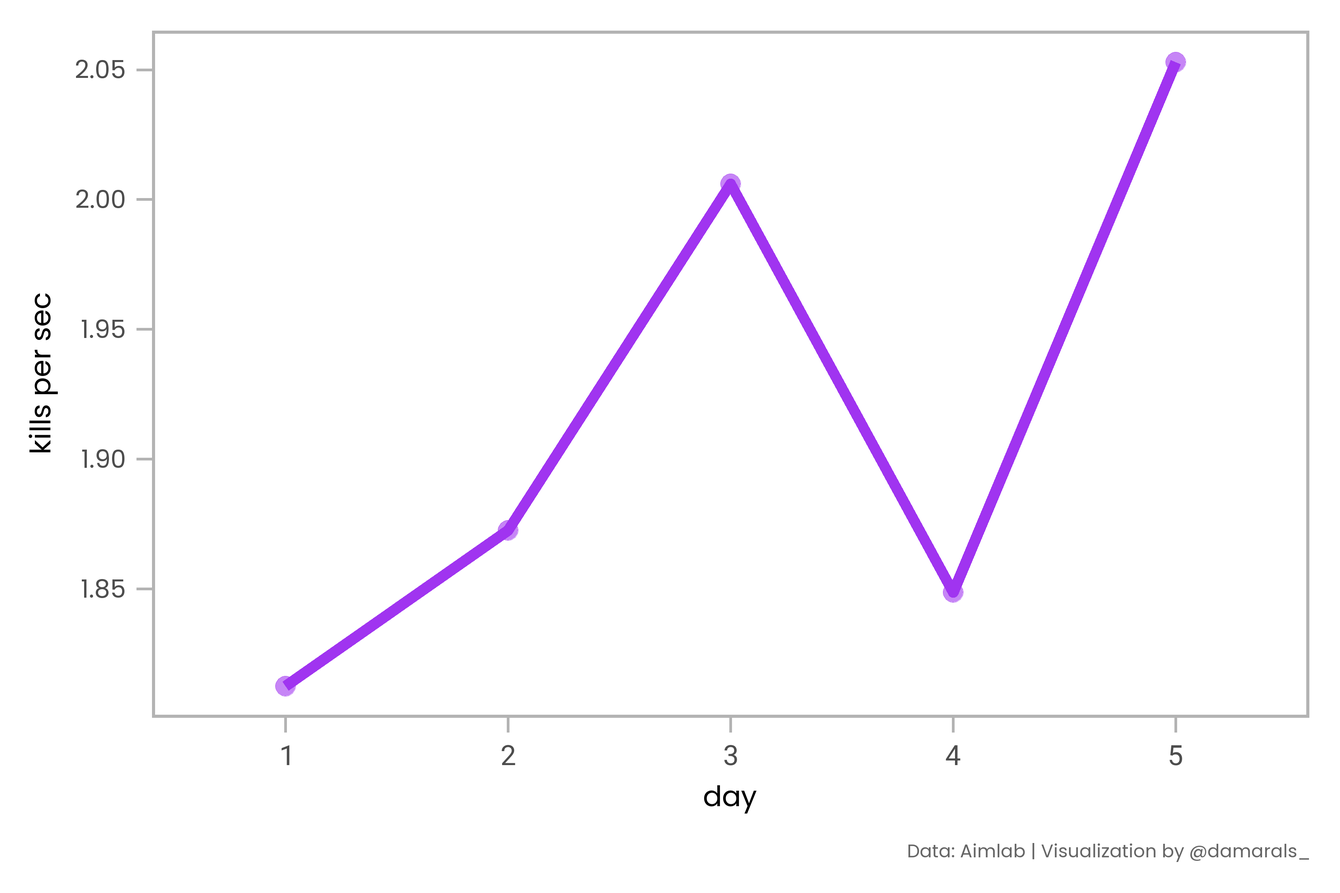
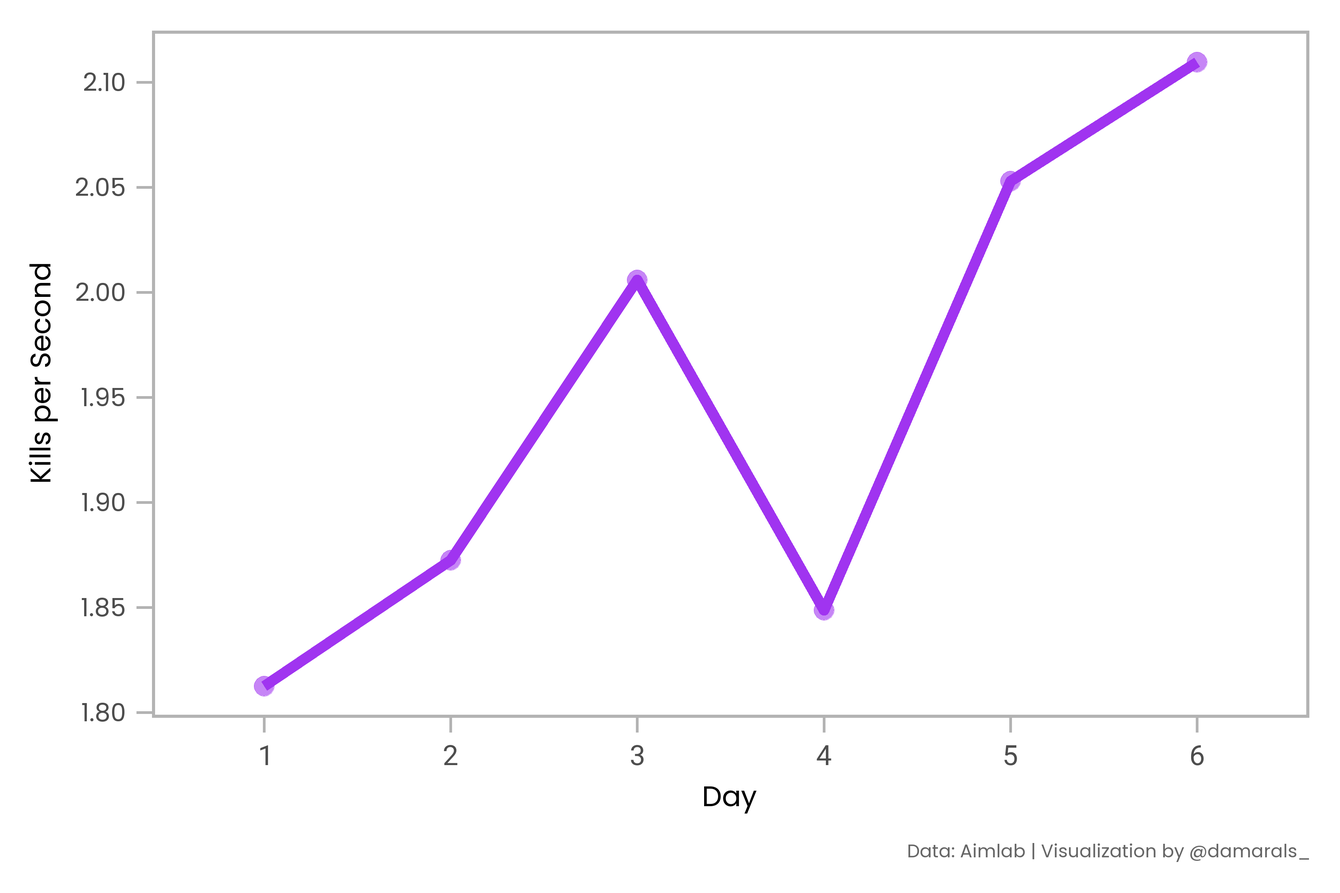
:rocket: att data and fix plot labels

diff --git a/docs/posts/2022-05-13_aimlab-is-worth/index.html b/docs/posts/2022-05-13_aimlab-is-worth/index.html
@@ -319,9 +319,9 @@ code span.wa { color: #60a0b0; font-weight: bold; font-style: italic; } /* Warni
 <span id="cb3-10"><a href="#cb3-10" aria-hidden="true" tabindex="-1"></a>  ggplot2<span class="sc">::</span><span class="fu">stat_summary</span>(<span class="at">fun =</span> mean, <span class="at">geom =</span> <span class="st">"point"</span>, <span class="at">size =</span> <span class="dv">9</span>, <span class="at">alpha =</span> <span class="fl">0.6</span>) <span class="sc">+</span></span>
 <span id="cb3-11"><a href="#cb3-11" aria-hidden="true" tabindex="-1"></a>  ggplot2<span class="sc">::</span><span class="fu">stat_summary</span>(<span class="at">fun =</span> mean, <span class="at">geom =</span> <span class="st">"line"</span>, <span class="at">size =</span> <span class="dv">5</span>) <span class="sc">+</span></span>
 <span id="cb3-12"><a href="#cb3-12" aria-hidden="true" tabindex="-1"></a>  ggplot2<span class="sc">::</span><span class="fu">scale_y_continuous</span>(<span class="at">breaks =</span> scales<span class="sc">::</span><span class="fu">pretty_breaks</span>(<span class="dv">8</span>)) <span class="sc">+</span></span>
-<span id="cb3-13"><a href="#cb3-13" aria-hidden="true" tabindex="-1"></a>  ggplot2<span class="sc">::</span><span class="fu">scale_color_discrete</span>(<span class="st">"aim on ball"</span>) <span class="sc">+</span></span>
+<span id="cb3-13"><a href="#cb3-13" aria-hidden="true" tabindex="-1"></a>  ggplot2<span class="sc">::</span><span class="fu">scale_color_discrete</span>(<span class="st">"Aim on Target"</span>) <span class="sc">+</span></span>
 <span id="cb3-14"><a href="#cb3-14" aria-hidden="true" tabindex="-1"></a>  ggplot2<span class="sc">::</span><span class="fu">scale_color_manual</span>(<span class="at">values =</span> <span class="fu">c</span>(<span class="st">"#FF8C00"</span>, <span class="st">"#A034F0"</span>)) <span class="sc">+</span></span>
-<span id="cb3-15"><a href="#cb3-15" aria-hidden="true" tabindex="-1"></a>  ggplot2<span class="sc">::</span><span class="fu">labs</span>(<span class="at">y =</span> <span class="st">"average time"</span>,</span>
+<span id="cb3-15"><a href="#cb3-15" aria-hidden="true" tabindex="-1"></a>  ggplot2<span class="sc">::</span><span class="fu">labs</span>(<span class="at">x =</span> <span class="st">"Day"</span>, <span class="at">y =</span> <span class="st">"Average Time (ms)"</span>,</span>
 <span id="cb3-16"><a href="#cb3-16" aria-hidden="true" tabindex="-1"></a>                <span class="at">caption =</span> <span class="st">"Data: Aimlab | Visualization by @damarals_"</span>) <span class="sc">+</span></span>
 <span id="cb3-17"><a href="#cb3-17" aria-hidden="true" tabindex="-1"></a>  danlib<span class="sc">::</span><span class="fu">dan_theme</span>(<span class="at">base_size =</span> <span class="dv">60</span>, <span class="at">axis_title_size =</span> <span class="dv">55</span>, </span>
 <span id="cb3-18"><a href="#cb3-18" aria-hidden="true" tabindex="-1"></a>                    <span class="at">axis_text_x_size =</span> <span class="dv">54</span>, <span class="at">caption_plot_size =</span> <span class="dv">35</span>)</span></code><button title="Copy to Clipboard" class="code-copy-button"><i class="bi"></i></button></pre></div>
@@ -358,11 +358,12 @@ code span.wa { color: #60a0b0; font-weight: bold; font-style: italic; } /* Warni
 <span id="cb4-10"><a href="#cb4-10" aria-hidden="true" tabindex="-1"></a>  ggplot2<span class="sc">::</span><span class="fu">aes</span>(<span class="at">x =</span> day, <span class="at">y =</span> error, <span class="at">color =</span> side, <span class="at">group =</span> side) <span class="sc">+</span></span>
 <span id="cb4-11"><a href="#cb4-11" aria-hidden="true" tabindex="-1"></a>  ggplot2<span class="sc">::</span><span class="fu">stat_summary</span>(<span class="at">fun =</span> mean, <span class="at">geom =</span> <span class="st">"point"</span>, <span class="at">size =</span> <span class="dv">9</span>, <span class="at">alpha =</span> <span class="fl">0.6</span>) <span class="sc">+</span></span>
 <span id="cb4-12"><a href="#cb4-12" aria-hidden="true" tabindex="-1"></a>  ggplot2<span class="sc">::</span><span class="fu">stat_summary</span>(<span class="at">fun =</span> mean, <span class="at">geom =</span> <span class="st">"line"</span>, <span class="at">size =</span> <span class="fl">4.5</span>) <span class="sc">+</span></span>
-<span id="cb4-13"><a href="#cb4-13" aria-hidden="true" tabindex="-1"></a>  ggplot2<span class="sc">::</span><span class="fu">scale_color_manual</span>(<span class="at">values =</span> color_pal) <span class="sc">+</span></span>
+<span id="cb4-13"><a href="#cb4-13" aria-hidden="true" tabindex="-1"></a>  ggplot2<span class="sc">::</span><span class="fu">scale_color_manual</span>(<span class="st">"Side"</span>, <span class="at">values =</span> color_pal) <span class="sc">+</span></span>
 <span id="cb4-14"><a href="#cb4-14" aria-hidden="true" tabindex="-1"></a>  ggplot2<span class="sc">::</span><span class="fu">scale_y_continuous</span>(<span class="at">breaks =</span> scales<span class="sc">::</span><span class="fu">pretty_breaks</span>(<span class="dv">8</span>)) <span class="sc">+</span></span>
-<span id="cb4-15"><a href="#cb4-15" aria-hidden="true" tabindex="-1"></a>  ggplot2<span class="sc">::</span><span class="fu">labs</span>(<span class="at">caption =</span> <span class="st">"Data: Aimlab | Visualization by @damarals_"</span>) <span class="sc">+</span></span>
-<span id="cb4-16"><a href="#cb4-16" aria-hidden="true" tabindex="-1"></a>  danlib<span class="sc">::</span><span class="fu">dan_theme</span>(<span class="at">base_size =</span> <span class="dv">60</span>, <span class="at">axis_title_size =</span> <span class="dv">55</span>, </span>
-<span id="cb4-17"><a href="#cb4-17" aria-hidden="true" tabindex="-1"></a>                    <span class="at">axis_text_x_size =</span> <span class="dv">54</span>, <span class="at">caption_plot_size =</span> <span class="dv">35</span>)</span></code><button title="Copy to Clipboard" class="code-copy-button"><i class="bi"></i></button></pre></div>
+<span id="cb4-15"><a href="#cb4-15" aria-hidden="true" tabindex="-1"></a>  ggplot2<span class="sc">::</span><span class="fu">labs</span>(<span class="at">x =</span> <span class="st">"Day"</span>, <span class="at">y =</span> <span class="st">"Error Bias"</span>,</span>
+<span id="cb4-16"><a href="#cb4-16" aria-hidden="true" tabindex="-1"></a>                <span class="at">caption =</span> <span class="st">"Data: Aimlab | Visualization by @damarals_"</span>) <span class="sc">+</span></span>
+<span id="cb4-17"><a href="#cb4-17" aria-hidden="true" tabindex="-1"></a>  danlib<span class="sc">::</span><span class="fu">dan_theme</span>(<span class="at">base_size =</span> <span class="dv">60</span>, <span class="at">axis_title_size =</span> <span class="dv">55</span>, </span>
+<span id="cb4-18"><a href="#cb4-18" aria-hidden="true" tabindex="-1"></a>                    <span class="at">axis_text_x_size =</span> <span class="dv">54</span>, <span class="at">caption_plot_size =</span> <span class="dv">35</span>)</span></code><button title="Copy to Clipboard" class="code-copy-button"><i class="bi"></i></button></pre></div>
 </details>
 <div class="cell-output-display">
 <div class="quarto-figure quarto-figure-center">
@@ -395,9 +396,10 @@ code span.wa { color: #60a0b0; font-weight: bold; font-style: italic; } /* Warni
 <span id="cb5-9"><a href="#cb5-9" aria-hidden="true" tabindex="-1"></a>                        <span class="at">color =</span> <span class="st">"#A034F0"</span>, <span class="at">size =</span> <span class="dv">5</span>) <span class="sc">+</span></span>
 <span id="cb5-10"><a href="#cb5-10" aria-hidden="true" tabindex="-1"></a>  ggplot2<span class="sc">::</span><span class="fu">scale_y_continuous</span>(<span class="at">labels =</span> scales<span class="sc">::</span><span class="fu">percent_format</span>(<span class="at">accuracy =</span> <span class="dv">1</span>),</span>
 <span id="cb5-11"><a href="#cb5-11" aria-hidden="true" tabindex="-1"></a>                              <span class="at">breaks =</span> scales<span class="sc">::</span><span class="fu">pretty_breaks</span>(<span class="dv">8</span>)) <span class="sc">+</span></span>
-<span id="cb5-12"><a href="#cb5-12" aria-hidden="true" tabindex="-1"></a>  ggplot2<span class="sc">::</span><span class="fu">labs</span>(<span class="at">caption =</span> <span class="st">"Data: Aimlab | Visualization by @damarals_"</span>) <span class="sc">+</span></span>
-<span id="cb5-13"><a href="#cb5-13" aria-hidden="true" tabindex="-1"></a>  danlib<span class="sc">::</span><span class="fu">dan_theme</span>(<span class="at">base_size =</span> <span class="dv">60</span>, <span class="at">axis_title_size =</span> <span class="dv">55</span>, </span>
-<span id="cb5-14"><a href="#cb5-14" aria-hidden="true" tabindex="-1"></a>                    <span class="at">axis_text_x_size =</span> <span class="dv">54</span>, <span class="at">caption_plot_size =</span> <span class="dv">35</span>)</span></code><button title="Copy to Clipboard" class="code-copy-button"><i class="bi"></i></button></pre></div>
+<span id="cb5-12"><a href="#cb5-12" aria-hidden="true" tabindex="-1"></a>  ggplot2<span class="sc">::</span><span class="fu">labs</span>(<span class="at">x =</span> <span class="st">"Day"</span>, <span class="at">y =</span> <span class="st">"Accuracy"</span>,</span>
+<span id="cb5-13"><a href="#cb5-13" aria-hidden="true" tabindex="-1"></a>                <span class="at">caption =</span> <span class="st">"Data: Aimlab | Visualization by @damarals_"</span>) <span class="sc">+</span></span>
+<span id="cb5-14"><a href="#cb5-14" aria-hidden="true" tabindex="-1"></a>  danlib<span class="sc">::</span><span class="fu">dan_theme</span>(<span class="at">base_size =</span> <span class="dv">60</span>, <span class="at">axis_title_size =</span> <span class="dv">55</span>, </span>
+<span id="cb5-15"><a href="#cb5-15" aria-hidden="true" tabindex="-1"></a>                    <span class="at">axis_text_x_size =</span> <span class="dv">54</span>, <span class="at">caption_plot_size =</span> <span class="dv">35</span>)</span></code><button title="Copy to Clipboard" class="code-copy-button"><i class="bi"></i></button></pre></div>
 </details>
 <div class="cell-output-display">
 <div class="quarto-figure quarto-figure-center">
@@ -419,7 +421,7 @@ code span.wa { color: #60a0b0; font-weight: bold; font-style: italic; } /* Warni
 <span id="cb6-7"><a href="#cb6-7" aria-hidden="true" tabindex="-1"></a>  ggplot2<span class="sc">::</span><span class="fu">stat_summary</span>(<span class="at">fun =</span> mean, <span class="at">geom =</span> <span class="st">"line"</span>, </span>
 <span id="cb6-8"><a href="#cb6-8" aria-hidden="true" tabindex="-1"></a>                        <span class="at">color =</span> <span class="st">"#A034F0"</span>, <span class="at">size =</span> <span class="dv">5</span>) <span class="sc">+</span></span>
 <span id="cb6-9"><a href="#cb6-9" aria-hidden="true" tabindex="-1"></a>  ggplot2<span class="sc">::</span><span class="fu">scale_y_continuous</span>(<span class="at">breaks =</span> scales<span class="sc">::</span><span class="fu">pretty_breaks</span>(<span class="dv">8</span>)) <span class="sc">+</span></span>
-<span id="cb6-10"><a href="#cb6-10" aria-hidden="true" tabindex="-1"></a>  ggplot2<span class="sc">::</span><span class="fu">labs</span>(<span class="at">y =</span> <span class="st">"kills per sec"</span>,</span>
+<span id="cb6-10"><a href="#cb6-10" aria-hidden="true" tabindex="-1"></a>  ggplot2<span class="sc">::</span><span class="fu">labs</span>(<span class="at">x =</span> <span class="st">"Day"</span>, <span class="at">y =</span> <span class="st">"Kills per Second"</span>,</span>
 <span id="cb6-11"><a href="#cb6-11" aria-hidden="true" tabindex="-1"></a>                <span class="at">caption =</span> <span class="st">"Data: Aimlab | Visualization by @damarals_"</span>) <span class="sc">+</span></span>
 <span id="cb6-12"><a href="#cb6-12" aria-hidden="true" tabindex="-1"></a>  danlib<span class="sc">::</span><span class="fu">dan_theme</span>(<span class="at">base_size =</span> <span class="dv">60</span>, <span class="at">axis_title_size =</span> <span class="dv">55</span>, </span>
 <span id="cb6-13"><a href="#cb6-13" aria-hidden="true" tabindex="-1"></a>                    <span class="at">axis_text_x_size =</span> <span class="dv">54</span>, <span class="at">caption_plot_size =</span> <span class="dv">35</span>)</span></code><button title="Copy to Clipboard" class="code-copy-button"><i class="bi"></i></button></pre></div>
@@ -455,9 +457,10 @@ code span.wa { color: #60a0b0; font-weight: bold; font-style: italic; } /* Warni
 <span id="cb7-9"><a href="#cb7-9" aria-hidden="true" tabindex="-1"></a>                        <span class="at">color =</span> <span class="st">"#A034F0"</span>, <span class="at">size =</span> <span class="dv">5</span>) <span class="sc">+</span></span>
 <span id="cb7-10"><a href="#cb7-10" aria-hidden="true" tabindex="-1"></a>  ggplot2<span class="sc">::</span><span class="fu">scale_y_continuous</span>(<span class="at">labels =</span> scales<span class="sc">::</span><span class="fu">percent_format</span>(<span class="at">accuracy =</span> <span class="dv">1</span>),</span>
 <span id="cb7-11"><a href="#cb7-11" aria-hidden="true" tabindex="-1"></a>                              <span class="at">breaks =</span> scales<span class="sc">::</span><span class="fu">pretty_breaks</span>(<span class="dv">8</span>)) <span class="sc">+</span></span>
-<span id="cb7-12"><a href="#cb7-12" aria-hidden="true" tabindex="-1"></a>  ggplot2<span class="sc">::</span><span class="fu">labs</span>(<span class="at">caption =</span> <span class="st">"Data: Aimlab | Visualization by @damarals_"</span>) <span class="sc">+</span></span>
-<span id="cb7-13"><a href="#cb7-13" aria-hidden="true" tabindex="-1"></a>  danlib<span class="sc">::</span><span class="fu">dan_theme</span>(<span class="at">base_size =</span> <span class="dv">60</span>, <span class="at">axis_title_size =</span> <span class="dv">55</span>, </span>
-<span id="cb7-14"><a href="#cb7-14" aria-hidden="true" tabindex="-1"></a>                    <span class="at">axis_text_x_size =</span> <span class="dv">54</span>, <span class="at">caption_plot_size =</span> <span class="dv">35</span>)</span></code><button title="Copy to Clipboard" class="code-copy-button"><i class="bi"></i></button></pre></div>
+<span id="cb7-12"><a href="#cb7-12" aria-hidden="true" tabindex="-1"></a>  ggplot2<span class="sc">::</span><span class="fu">labs</span>(<span class="at">x =</span> <span class="st">"Day"</span>, <span class="at">y =</span> <span class="st">"Accuracy"</span>,</span>
+<span id="cb7-13"><a href="#cb7-13" aria-hidden="true" tabindex="-1"></a>                <span class="at">caption =</span> <span class="st">"Data: Aimlab | Visualization by @damarals_"</span>) <span class="sc">+</span></span>
+<span id="cb7-14"><a href="#cb7-14" aria-hidden="true" tabindex="-1"></a>  danlib<span class="sc">::</span><span class="fu">dan_theme</span>(<span class="at">base_size =</span> <span class="dv">60</span>, <span class="at">axis_title_size =</span> <span class="dv">55</span>, </span>
+<span id="cb7-15"><a href="#cb7-15" aria-hidden="true" tabindex="-1"></a>                    <span class="at">axis_text_x_size =</span> <span class="dv">54</span>, <span class="at">caption_plot_size =</span> <span class="dv">35</span>)</span></code><button title="Copy to Clipboard" class="code-copy-button"><i class="bi"></i></button></pre></div>
 </details>
 <div class="cell-output-display">
 <div class="quarto-figure quarto-figure-center">
@@ -479,7 +482,7 @@ code span.wa { color: #60a0b0; font-weight: bold; font-style: italic; } /* Warni
 <span id="cb8-7"><a href="#cb8-7" aria-hidden="true" tabindex="-1"></a>  ggplot2<span class="sc">::</span><span class="fu">stat_summary</span>(<span class="at">fun =</span> mean, <span class="at">geom =</span> <span class="st">"line"</span>, </span>
 <span id="cb8-8"><a href="#cb8-8" aria-hidden="true" tabindex="-1"></a>                        <span class="at">color =</span> <span class="st">"#A034F0"</span>, <span class="at">size =</span> <span class="dv">5</span>) <span class="sc">+</span></span>
 <span id="cb8-9"><a href="#cb8-9" aria-hidden="true" tabindex="-1"></a>  ggplot2<span class="sc">::</span><span class="fu">scale_y_continuous</span>(<span class="at">breaks =</span> scales<span class="sc">::</span><span class="fu">pretty_breaks</span>(<span class="dv">8</span>)) <span class="sc">+</span></span>
-<span id="cb8-10"><a href="#cb8-10" aria-hidden="true" tabindex="-1"></a>  ggplot2<span class="sc">::</span><span class="fu">labs</span>(<span class="at">y =</span> <span class="st">"kills per sec"</span>,</span>
+<span id="cb8-10"><a href="#cb8-10" aria-hidden="true" tabindex="-1"></a>  ggplot2<span class="sc">::</span><span class="fu">labs</span>(<span class="at">x =</span> <span class="st">"Day"</span>, <span class="at">y =</span> <span class="st">"Kills per Second"</span>,</span>
 <span id="cb8-11"><a href="#cb8-11" aria-hidden="true" tabindex="-1"></a>                <span class="at">caption =</span> <span class="st">"Data: Aimlab | Visualization by @damarals_"</span>) <span class="sc">+</span></span>
 <span id="cb8-12"><a href="#cb8-12" aria-hidden="true" tabindex="-1"></a>  danlib<span class="sc">::</span><span class="fu">dan_theme</span>(<span class="at">base_size =</span> <span class="dv">60</span>, <span class="at">axis_title_size =</span> <span class="dv">55</span>, </span>
 <span id="cb8-13"><a href="#cb8-13" aria-hidden="true" tabindex="-1"></a>                    <span class="at">axis_text_x_size =</span> <span class="dv">54</span>, <span class="at">caption_plot_size =</span> <span class="dv">35</span>)</span></code><button title="Copy to Clipboard" class="code-copy-button"><i class="bi"></i></button></pre></div>
@@ -515,9 +518,10 @@ code span.wa { color: #60a0b0; font-weight: bold; font-style: italic; } /* Warni
 <span id="cb9-9"><a href="#cb9-9" aria-hidden="true" tabindex="-1"></a>                        <span class="at">color =</span> <span class="st">"#A034F0"</span>, <span class="at">size =</span> <span class="dv">5</span>) <span class="sc">+</span></span>
 <span id="cb9-10"><a href="#cb9-10" aria-hidden="true" tabindex="-1"></a>  ggplot2<span class="sc">::</span><span class="fu">scale_y_continuous</span>(<span class="at">labels =</span> scales<span class="sc">::</span><span class="fu">percent_format</span>(<span class="at">accuracy =</span> <span class="dv">1</span>),</span>
 <span id="cb9-11"><a href="#cb9-11" aria-hidden="true" tabindex="-1"></a>                              <span class="at">breaks =</span> scales<span class="sc">::</span><span class="fu">pretty_breaks</span>(<span class="dv">8</span>)) <span class="sc">+</span></span>
-<span id="cb9-12"><a href="#cb9-12" aria-hidden="true" tabindex="-1"></a>  ggplot2<span class="sc">::</span><span class="fu">labs</span>(<span class="at">caption =</span> <span class="st">"Data: Aimlab | Visualization by @damarals_"</span>) <span class="sc">+</span></span>
-<span id="cb9-13"><a href="#cb9-13" aria-hidden="true" tabindex="-1"></a>  danlib<span class="sc">::</span><span class="fu">dan_theme</span>(<span class="at">base_size =</span> <span class="dv">60</span>, <span class="at">axis_title_size =</span> <span class="dv">55</span>, </span>
-<span id="cb9-14"><a href="#cb9-14" aria-hidden="true" tabindex="-1"></a>                    <span class="at">axis_text_x_size =</span> <span class="dv">54</span>, <span class="at">caption_plot_size =</span> <span class="dv">35</span>)</span></code><button title="Copy to Clipboard" class="code-copy-button"><i class="bi"></i></button></pre></div>
+<span id="cb9-12"><a href="#cb9-12" aria-hidden="true" tabindex="-1"></a>  ggplot2<span class="sc">::</span><span class="fu">labs</span>(<span class="at">x =</span> <span class="st">"Day"</span>, <span class="at">y =</span> <span class="st">"Accuracy"</span>,</span>
+<span id="cb9-13"><a href="#cb9-13" aria-hidden="true" tabindex="-1"></a>                <span class="at">caption =</span> <span class="st">"Data: Aimlab | Visualization by @damarals_"</span>) <span class="sc">+</span></span>
+<span id="cb9-14"><a href="#cb9-14" aria-hidden="true" tabindex="-1"></a>  danlib<span class="sc">::</span><span class="fu">dan_theme</span>(<span class="at">base_size =</span> <span class="dv">60</span>, <span class="at">axis_title_size =</span> <span class="dv">55</span>, </span>
+<span id="cb9-15"><a href="#cb9-15" aria-hidden="true" tabindex="-1"></a>                    <span class="at">axis_text_x_size =</span> <span class="dv">54</span>, <span class="at">caption_plot_size =</span> <span class="dv">35</span>)</span></code><button title="Copy to Clipboard" class="code-copy-button"><i class="bi"></i></button></pre></div>
 </details>
 <div class="cell-output-display">
 <div class="quarto-figure quarto-figure-center">
@@ -539,7 +543,7 @@ code span.wa { color: #60a0b0; font-weight: bold; font-style: italic; } /* Warni
 <span id="cb10-7"><a href="#cb10-7" aria-hidden="true" tabindex="-1"></a>  ggplot2<span class="sc">::</span><span class="fu">stat_summary</span>(<span class="at">fun =</span> mean, <span class="at">geom =</span> <span class="st">"line"</span>, </span>
 <span id="cb10-8"><a href="#cb10-8" aria-hidden="true" tabindex="-1"></a>                        <span class="at">color =</span> <span class="st">"#A034F0"</span>, <span class="at">size =</span> <span class="dv">5</span>) <span class="sc">+</span></span>
 <span id="cb10-9"><a href="#cb10-9" aria-hidden="true" tabindex="-1"></a>  ggplot2<span class="sc">::</span><span class="fu">scale_y_continuous</span>(<span class="at">breaks =</span> scales<span class="sc">::</span><span class="fu">pretty_breaks</span>(<span class="dv">8</span>)) <span class="sc">+</span></span>
-<span id="cb10-10"><a href="#cb10-10" aria-hidden="true" tabindex="-1"></a>  ggplot2<span class="sc">::</span><span class="fu">labs</span>(<span class="at">y =</span> <span class="st">"kills per sec"</span>,</span>
+<span id="cb10-10"><a href="#cb10-10" aria-hidden="true" tabindex="-1"></a>  ggplot2<span class="sc">::</span><span class="fu">labs</span>(<span class="at">x =</span> <span class="st">"Day"</span>, <span class="at">y =</span> <span class="st">"Kills per Second"</span>,</span>
 <span id="cb10-11"><a href="#cb10-11" aria-hidden="true" tabindex="-1"></a>                <span class="at">caption =</span> <span class="st">"Data: Aimlab | Visualization by @damarals_"</span>) <span class="sc">+</span></span>
 <span id="cb10-12"><a href="#cb10-12" aria-hidden="true" tabindex="-1"></a>  danlib<span class="sc">::</span><span class="fu">dan_theme</span>(<span class="at">base_size =</span> <span class="dv">60</span>, <span class="at">axis_title_size =</span> <span class="dv">55</span>, </span>
 <span id="cb10-13"><a href="#cb10-13" aria-hidden="true" tabindex="-1"></a>                    <span class="at">axis_text_x_size =</span> <span class="dv">54</span>, <span class="at">caption_plot_size =</span> <span class="dv">35</span>)</span></code><button title="Copy to Clipboard" class="code-copy-button"><i class="bi"></i></button></pre></div>
@@ -575,9 +579,10 @@ code span.wa { color: #60a0b0; font-weight: bold; font-style: italic; } /* Warni
 <span id="cb11-9"><a href="#cb11-9" aria-hidden="true" tabindex="-1"></a>                        <span class="at">color =</span> <span class="st">"#A034F0"</span>, <span class="at">size =</span> <span class="dv">5</span>) <span class="sc">+</span></span>
 <span id="cb11-10"><a href="#cb11-10" aria-hidden="true" tabindex="-1"></a>  ggplot2<span class="sc">::</span><span class="fu">scale_y_continuous</span>(<span class="at">labels =</span> scales<span class="sc">::</span><span class="fu">percent_format</span>(<span class="at">accuracy =</span> <span class="dv">1</span>),</span>
 <span id="cb11-11"><a href="#cb11-11" aria-hidden="true" tabindex="-1"></a>                              <span class="at">breaks =</span> scales<span class="sc">::</span><span class="fu">pretty_breaks</span>(<span class="dv">8</span>)) <span class="sc">+</span></span>
-<span id="cb11-12"><a href="#cb11-12" aria-hidden="true" tabindex="-1"></a>  ggplot2<span class="sc">::</span><span class="fu">labs</span>(<span class="at">caption =</span> <span class="st">"Data: Aimlab | Visualization by @damarals_"</span>) <span class="sc">+</span></span>
-<span id="cb11-13"><a href="#cb11-13" aria-hidden="true" tabindex="-1"></a>  danlib<span class="sc">::</span><span class="fu">dan_theme</span>(<span class="at">base_size =</span> <span class="dv">60</span>, <span class="at">axis_title_size =</span> <span class="dv">55</span>, </span>
-<span id="cb11-14"><a href="#cb11-14" aria-hidden="true" tabindex="-1"></a>                    <span class="at">axis_text_x_size =</span> <span class="dv">54</span>, <span class="at">caption_plot_size =</span> <span class="dv">35</span>)</span></code><button title="Copy to Clipboard" class="code-copy-button"><i class="bi"></i></button></pre></div>
+<span id="cb11-12"><a href="#cb11-12" aria-hidden="true" tabindex="-1"></a>  ggplot2<span class="sc">::</span><span class="fu">labs</span>(<span class="at">x =</span> <span class="st">"Day"</span>, <span class="at">y =</span> <span class="st">"Accuracy"</span>,</span>
+<span id="cb11-13"><a href="#cb11-13" aria-hidden="true" tabindex="-1"></a>                <span class="at">caption =</span> <span class="st">"Data: Aimlab | Visualization by @damarals_"</span>) <span class="sc">+</span></span>
+<span id="cb11-14"><a href="#cb11-14" aria-hidden="true" tabindex="-1"></a>  danlib<span class="sc">::</span><span class="fu">dan_theme</span>(<span class="at">base_size =</span> <span class="dv">60</span>, <span class="at">axis_title_size =</span> <span class="dv">55</span>, </span>
+<span id="cb11-15"><a href="#cb11-15" aria-hidden="true" tabindex="-1"></a>                    <span class="at">axis_text_x_size =</span> <span class="dv">54</span>, <span class="at">caption_plot_size =</span> <span class="dv">35</span>)</span></code><button title="Copy to Clipboard" class="code-copy-button"><i class="bi"></i></button></pre></div>
 </details>
 <div class="cell-output-display">
 <div class="quarto-figure quarto-figure-center">
@@ -599,7 +604,7 @@ code span.wa { color: #60a0b0; font-weight: bold; font-style: italic; } /* Warni
 <span id="cb12-7"><a href="#cb12-7" aria-hidden="true" tabindex="-1"></a>  ggplot2<span class="sc">::</span><span class="fu">stat_summary</span>(<span class="at">fun =</span> mean, <span class="at">geom =</span> <span class="st">"line"</span>, </span>
 <span id="cb12-8"><a href="#cb12-8" aria-hidden="true" tabindex="-1"></a>                        <span class="at">color =</span> <span class="st">"#A034F0"</span>, <span class="at">size =</span> <span class="dv">5</span>) <span class="sc">+</span></span>
 <span id="cb12-9"><a href="#cb12-9" aria-hidden="true" tabindex="-1"></a>  ggplot2<span class="sc">::</span><span class="fu">scale_y_continuous</span>(<span class="at">breaks =</span> scales<span class="sc">::</span><span class="fu">pretty_breaks</span>(<span class="dv">8</span>)) <span class="sc">+</span></span>
-<span id="cb12-10"><a href="#cb12-10" aria-hidden="true" tabindex="-1"></a>  ggplot2<span class="sc">::</span><span class="fu">labs</span>(<span class="at">y =</span> <span class="st">"kills per second"</span>,</span>
+<span id="cb12-10"><a href="#cb12-10" aria-hidden="true" tabindex="-1"></a>  ggplot2<span class="sc">::</span><span class="fu">labs</span>(<span class="at">x =</span> <span class="st">"Day"</span>, <span class="at">y =</span> <span class="st">"Kills per Second"</span>,</span>
 <span id="cb12-11"><a href="#cb12-11" aria-hidden="true" tabindex="-1"></a>                <span class="at">caption =</span> <span class="st">"Data: Aimlab | Visualization by @damarals_"</span>) <span class="sc">+</span></span>
 <span id="cb12-12"><a href="#cb12-12" aria-hidden="true" tabindex="-1"></a>  danlib<span class="sc">::</span><span class="fu">dan_theme</span>(<span class="at">base_size =</span> <span class="dv">60</span>, <span class="at">axis_title_size =</span> <span class="dv">55</span>, </span>
 <span id="cb12-13"><a href="#cb12-13" aria-hidden="true" tabindex="-1"></a>                    <span class="at">axis_text_x_size =</span> <span class="dv">54</span>, <span class="at">caption_plot_size =</span> <span class="dv">35</span>)</span></code><button title="Copy to Clipboard" class="code-copy-button"><i class="bi"></i></button></pre></div>

diff --git a/docs/index.html b/docs/index.html
@@ -156,7 +156,7 @@ ul.task-list{list-style: none;}
 
 <div class="quarto-listing quarto-listing-container-default" id="listing-listing">
 <div class="list quarto-listing-default">
-<div class="quarto-post image-right" data-index="0" data-categories="Games,DataViz" data-listing-date-sort="1652324400000" data-listing-file-modified-sort="1652587128479" data-listing-reading-time-sort="13.995">
+<div class="quarto-post image-right" data-index="0" data-categories="Games,DataViz" data-listing-date-sort="1652324400000" data-listing-file-modified-sort="1652630221631" data-listing-reading-time-sort="14.61">
 <div class="thumbnail">
 <p><a href="./posts/2022-05-13_aimlab-is-worth/index.html"> <img src="./posts/2022-05-13_aimlab-is-worth/img/aimlab.jpg" class="thumnail-image"> </a></p>
 </div>
@@ -185,7 +185,7 @@ DataViz
 May 12, 2022
 </div>
 <div class="listing-reading-time">
-13 min
+14 min
 </div>
 </a>
 </div>
